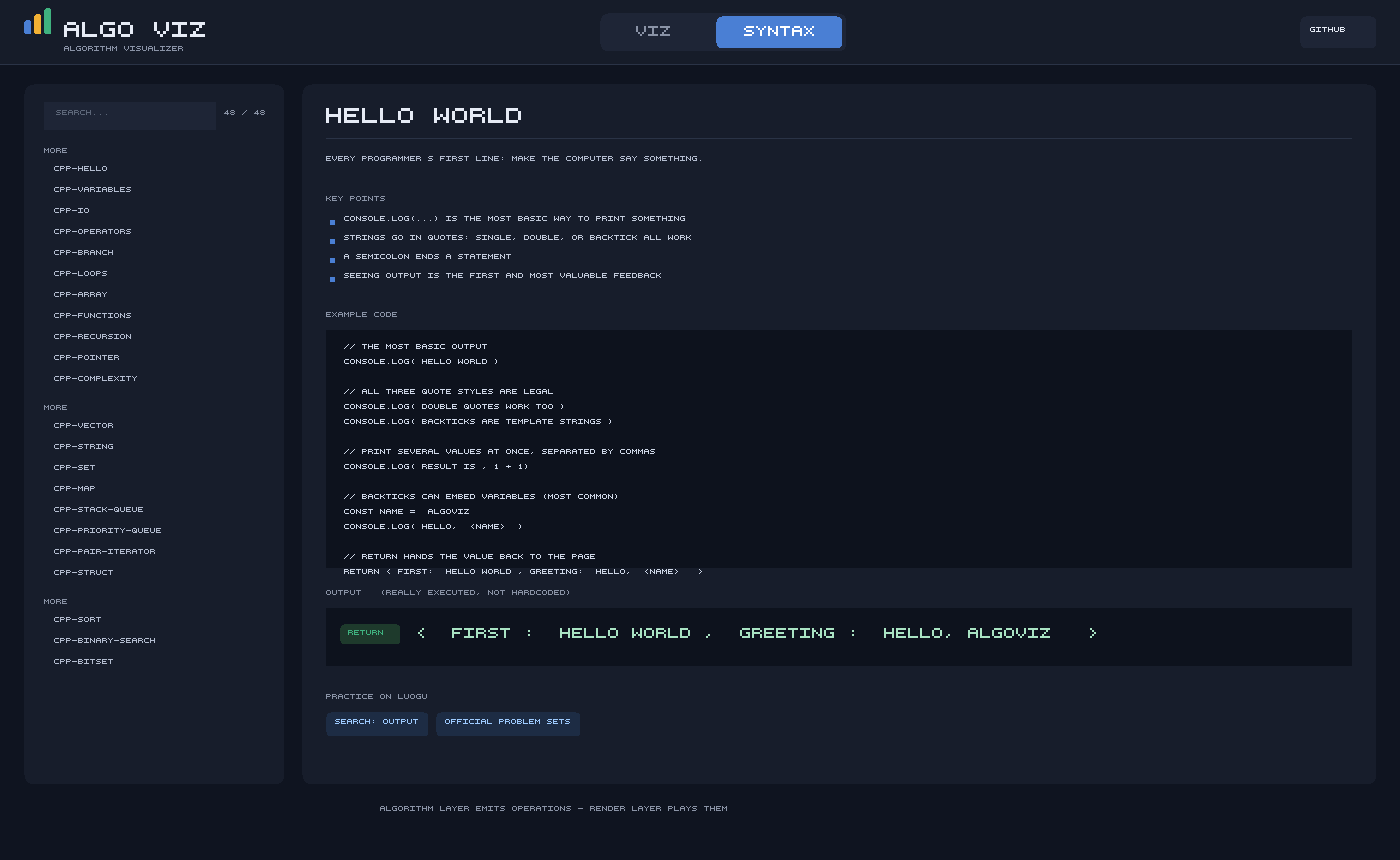
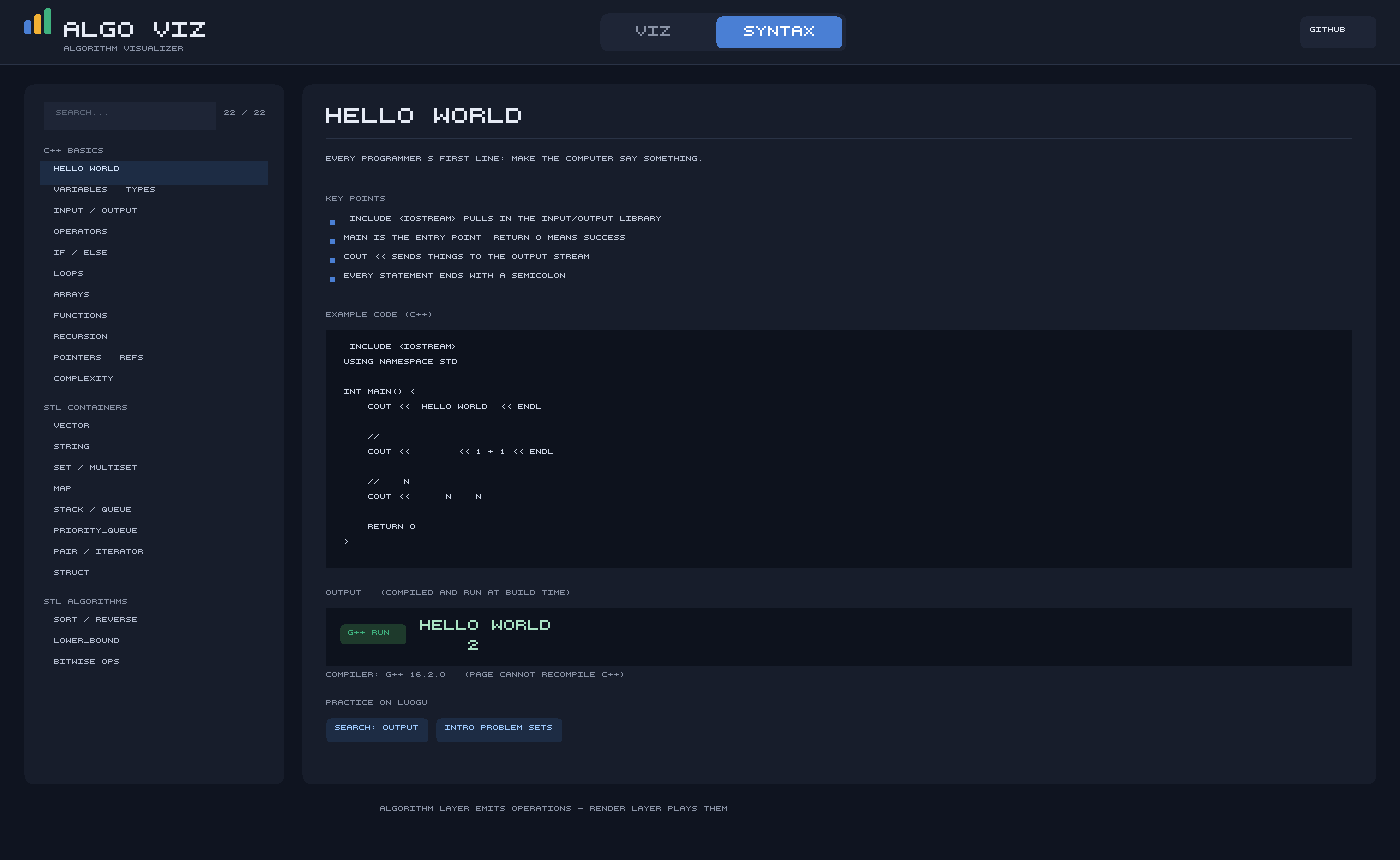
docs: README 同步为 C++ 版本，修正截图内容与目录结构
## README

- 「语法基础」章节改写为「C++ 语法 / STL（22 个知识点，3 组）」
  列出 C++ 基础 11、STL 容器 8、STL 算法 3
- 明确说明输出为何是「预先录制」的：浏览器无法执行 C++，
  且项目部署在 GitHub Pages（纯静态无后端）。如实说明
  「✅ 输出真实编译过 / ✅ 页面标注了来源 / ❌ 不能在网页上重跑」
- 新增「C++ 示例的构建流程」小节，说明三段式流程与原因
  （沙箱禁止 Node spawn 子进程，所以编译步骤只能单独跑）
- 修正目录结构（此前多处编辑导致缩进错乱），补上 cpp-* 与新增测试文件
- 测试章节：verify-syntax.js → verify-cpp-content.js，并列出其 8 组检查内容

## 截图

此前示意图右侧仍显示旧 JS 内容（console.log / backticks），
与真实页面不符 —— 误导性的截图比没有更糟。已改为：
- 代码直接从 src/syntax/cpp-topics.js 的真实内容读取（不再手写）
- 展示 #include <iostream> / cout << 等真实 C++
- 输出区展示真实编译结果，并标注「PAGE CANNOT RECOMPILE C++」
- 左侧导航分组改为 C++ BASICS / STL CONTAINERS / STL ALGORITHMS
- 知识点计数从硬编码的 48 改为从真实数据读取

全部 8 个测试套件通过。

diff --git a/tests/make-screenshot.js b/tests/make-screenshot.js
@@ -323,22 +323,32 @@ function drawVizScreenshot() {
 // 图二：语法基础页
 // =====================================================================
 
-const { CPP_GROUPS: SYNTAX_GROUPS } = await import(pathToFileURL(path.join(ROOT, 'src/syntax/content.js')).href);
+const { CPP_GROUPS, CPP_TOPIC_LIST, CPP_BUILD_META } = await import(
+  pathToFileURL(path.join(ROOT, 'src/syntax/content.js')).href
+);
 
+/** 中文标题用英文标签代替（点阵字体画不了中文）。 */
 const LABELS = {
-  variables: 'VARIABLES', 'number-types': 'NUMBERS', 'math-floor': 'MATH.FLOOR',
-  'string-basics': 'STRINGS', 'comparison-ops': 'COMPARISON OPS', 'if-else': 'IF / ELSE',
-  truthiness: 'TRUTHINESS', 'array-basics': 'ARRAY BASICS', 'array-push-pop': 'PUSH / POP',
-  'nested-array': '2D ARRAYS', 'for-loop': 'FOR LOOP', 'while-loop': 'WHILE LOOP',
-  'nested-loop': 'NESTED LOOPS', 'array-map-filter': 'MAP / FILTER', 'array-slice': 'SLICE / SPLICE',
-  'array-index-math': 'INDEX MATH', functions: 'FUNCTIONS', 'arrow-function': 'ARROW FUNCTIONS',
-  closures: 'CLOSURES', recursion: 'RECURSION', 'recursion-vs-stack': 'RECURSION TO STACK',
-  'object-literal': 'OBJECTS', 'set-map': 'SET / MAP', 'for-of': 'FOR...OF',
-  'variable-swap': 'SWAP VARIABLES', 'short-circuit': 'SHORT CIRCUIT', 'boolean-flag': 'BOOLEAN FLAG',
-  'min-tracking': 'MIN TRACKING', 'array-init': 'INIT COUNTS', 'array-as-queue': 'QUEUE VIA ARRAY',
-  'array-shift': 'SHIFT COST', 'mid-overflow': 'BINARY MIDPOINT',
-  'string-length': 'STRING LENGTH', 'math-sqrt': 'MATH.SQRT',
-  'array-as-stack': 'STACK VIA ARRAY', destructuring: 'DESTRUCTURING',
+  // 零基础入门
+  'cpp-hello': 'HELLO WORLD', 'cpp-variables': 'VARIABLES & TYPES',
+  'cpp-io': 'INPUT / OUTPUT', 'cpp-operators': 'OPERATORS',
+  'cpp-branch': 'IF / ELSE', 'cpp-loops': 'LOOPS', 'cpp-array': 'ARRAYS',
+  'cpp-functions': 'FUNCTIONS', 'cpp-recursion': 'RECURSION',
+  'cpp-pointer': 'POINTERS & REFS', 'cpp-complexity': 'COMPLEXITY',
+  // STL 容器
+  'cpp-vector': 'VECTOR', 'cpp-string': 'STRING', 'cpp-set': 'SET / MULTISET',
+  'cpp-map': 'MAP', 'cpp-stack-queue': 'STACK / QUEUE',
+  'cpp-priority-queue': 'PRIORITY_QUEUE', 'cpp-pair-iterator': 'PAIR / ITERATOR',
+  'cpp-struct': 'STRUCT',
+  // STL 算法
+  'cpp-sort': 'SORT / REVERSE', 'cpp-binary-search': 'LOWER_BOUND',
+  'cpp-bitset': 'BITWISE OPS',
+};
+
+const GROUP_LABELS = {
+  '零基础入门': 'C++ BASICS',
+  'STL 容器': 'STL CONTAINERS',
+  'STL 算法': 'STL ALGORITHMS',
 };
 
 function drawSyntaxScreenshot() {
@@ -346,25 +356,23 @@ function drawSyntaxScreenshot() {
   cv.rect(0, 0, cv.W, cv.H, C.bg);
   drawChrome(cv, 'syntax');
 
+  // ---- 左栏导航 ----
   cv.roundRect(24, 84, 260, 700, 10, C.panel);
   cv.rect(44, 102, 172, 28, C.elevated);
   cv.text('SEARCH...', 56, 110, '#5d6779', 1);
-  cv.text('48 / 48', 224, 110, C.muted, 1);
+  cv.text(`${CPP_TOPIC_LIST.length} / ${CPP_TOPIC_LIST.length}`, 224, 110, C.muted, 1);
+
+  // 截图展示的是 Hello World 这一项
+  const ACTIVE_ID = 'cpp-hello';
 
   let ny = 148;
-  const groupLabels = {
-    '语言基础': 'LANGUAGE BASICS',
-    '字符串与判断': 'STRINGS & LOGIC',
-    '数组': 'ARRAYS',
-    '函数': 'FUNCTIONS',
-  };
-  for (const group of SYNTAX_GROUPS) {
+  for (const group of CPP_GROUPS) {
     if (ny > 690) break;
-    cv.text(groupLabels[group.name] || 'MORE', 44, ny, C.muted, 1);
+    cv.text(GROUP_LABELS[group.name] || group.name.toUpperCase(), 44, ny, C.muted, 1);
     ny += 18;
     for (const t of group.topics) {
       if (ny > 730) break;
-      const active = t.id === 'mid-overflow';
+      const active = t.id === ACTIVE_ID;
       if (active) cv.rect(40, ny - 5, 228, 24, '#1d2c44');
       cv.text(LABELS[t.id] || t.id.toUpperCase(), 54, ny, active ? '#cfe0f8' : C.dim, 1);
       ny += 21;
@@ -380,10 +388,10 @@ function drawSyntaxScreenshot() {
 
   cv.text('KEY POINTS', 326, 196, C.muted, 1);
   const points = [
-    'CONSOLE.LOG(...) IS THE MOST BASIC WAY TO PRINT SOMETHING',
-    'STRINGS GO IN QUOTES: SINGLE, DOUBLE, OR BACKTICK ALL WORK',
-    'A SEMICOLON ENDS A STATEMENT',
-    'SEEING OUTPUT IS THE FIRST AND MOST VALUABLE FEEDBACK',
+    '#INCLUDE <IOSTREAM> PULLS IN THE INPUT/OUTPUT LIBRARY',
+    'MAIN IS THE ENTRY POINT; RETURN 0 MEANS SUCCESS',
+    'COUT << SENDS THINGS TO THE OUTPUT STREAM',
+    'EVERY STATEMENT ENDS WITH A SEMICOLON',
   ];
   let py = 216;
   for (const p of points) {
@@ -392,44 +400,38 @@ function drawSyntaxScreenshot() {
     py += 19;
   }
 
-  cv.text('EXAMPLE CODE', 326, 312, C.muted, 1);
+  // 代码直接从真实内容里取，保证示意图和实际一致
+  const activeTopic = CPP_TOPIC_LIST.find((t) => t.id === ACTIVE_ID);
+  cv.text('EXAMPLE CODE (C++)', 326, 312, C.muted, 1);
   cv.rect(326, 330, 1026, 238, '#0d121d');
-  const code = [
-    '// The most basic output',
-    'console.log(\'Hello World\');',
-    '',
-    '// All three quote styles are legal',
-    'console.log("double quotes work too");',
-    'console.log(`backticks are template strings`);',
-    '',
-    '// Print several values at once, separated by commas',
-    'console.log(\'result is\', 1 + 1);',
-    '',
-    '// Backticks can embed variables (most common)',
-    'const name = \'AlgoViz\';',
-    'console.log(`hello, ${name}!`);',
-    '',
-    '// return hands the value back to the page',
-    'return { first: \'Hello World\', greeting: `hello, ${name}!` };',
-  ];
+  const codeLines = (activeTopic ? activeTopic.code : '').split('\n').slice(0, 14);
   let cy = 344;
-  for (const line of code) { cv.text(line, 344, cy, '#cfd8e8', 1); cy += 15; }
+  for (const line of codeLines) { cv.text(line, 344, cy, '#cfd8e8', 1); cy += 15; }
 
-  cv.text('OUTPUT   (REALLY EXECUTED, NOT HARDCODED)', 326, 590, C.muted, 1);
+  // 真实输出
+  cv.text('OUTPUT   (COMPILED AND RUN AT BUILD TIME)', 326, 590, C.muted, 1);
   cv.rect(326, 608, 1026, 58, '#0d121d');
-  cv.roundRect(340, 624, 60, 20, 4, '#1e3a2c');
-  cv.text('RETURN', 348, 630, C.green, 1);
-  cv.text('{ "FIRST": "HELLO WORLD", "GREETING": "HELLO, ALGOVIZ!" }', 416, 628, '#a9e3c3', 2);
+  cv.roundRect(340, 624, 66, 20, 4, '#1e3a2c');
+  cv.text('G++ RUN', 348, 630, C.green, 1);
+  const outLines = ((activeTopic && activeTopic.output) || '').trim().split('\n').slice(0, 2);
+  let oy = 620;
+  for (const line of outLines) {
+    cv.text(line, 420, oy, '#a9e3c3', 2);
+    oy += 20;
+  }
+  // 如实标注：构建期编译，页面不能重跑
+  cv.text(`COMPILER: G++ 16.2.0   (PAGE CANNOT RECOMPILE C++)`, 326, 672, C.muted, 1);
 
   // 洛谷练习入口
-  cv.text('PRACTICE ON LUOGU', 326, 694, C.muted, 1);
+  cv.text('PRACTICE ON LUOGU', 326, 700, C.muted, 1);
   let ux = 326;
-  for (const name of ['SEARCH: OUTPUT', 'OFFICIAL PROBLEM SETS']) {
+  for (const name of ['SEARCH: OUTPUT', 'INTRO PROBLEM SETS']) {
     const w = Canvas.tw(name, 1) + 18;
-    cv.roundRect(ux, 712, w, 24, 5, '#1d2c44');
-    cv.text(name, ux + 9, 719, '#9ecbff', 1);
+    cv.roundRect(ux, 718, w, 24, 5, '#1d2c44');
+    cv.text(name, ux + 9, 725, '#9ecbff', 1);
     ux += w + 8;
   }
+  void CPP_BUILD_META;
 
   cv.text('ALGORITHM LAYER EMITS OPERATIONS - RENDER LAYER PLAYS THEM', 380, 806, C.muted, 1);
   return writePng(cv, path.join(OUT_DIR, 'screenshot-syntax.png'));

diff --git a/README.md b/README.md
@@ -13,7 +13,7 @@
 | 页签 | 内容 | 适合谁 |
 |---|---|---|
 | **算法可视化** | **23 个**算法 / 数据结构，8 个分类，每类有专属渲染方式 | 想看「算法到底怎么跑的」 |
-| **语法基础** | **48 个** JS 知识点（含零基础入门 12 个），每个都配**可执行**示例 | 从零开始学，或看不懂算法代码 |
+| **C++ 语法 / STL** | **22 个** C++ 知识点（基础 11 + STL 11），示例经 g++ 真实编译 | 从零开始学 C++，或看不懂算法代码 |
 
 两者是**互相跳转**的：每个算法旁边列出它用到的语法点，点一下跳到讲解；
 每个语法点底部列出用它的算法，点一下跳回动画。**看不懂哪行代码，就去点它。**
@@ -24,7 +24,7 @@
 
 ![算法可视化界面](docs/screenshot.png)
 
-### 语法基础
+### C++ 语法 / STL
 
 ![语法基础界面](docs/screenshot-syntax.png)
 
@@ -78,6 +78,21 @@ npm run screenshot    # 重新生成两张示意图
 
 ---
 
+### C++ 示例的构建流程
+
+C++ 示例的输出是**构建期**编译得到的（浏览器跑不了 C++）。要重新生成：
+
+```bash
+node tests/build-cpp.js            # 阶段一：写出 .cpp 源文件
+# 然后编译运行（本机沙箱禁止 Node 直接 spawn 子进程，所以要单独跑这步）
+# 见 tests/build-cpp.ps1 里的循环，或手动用 g++ 编译 .cpp-build/*.cpp
+node tests/build-cpp.js --collect  # 阶段三：收集真实输出成 cpp-output.js
+```
+
+编译产物写在 `.cpp-build/`（**不入库**），只有收集结果 `src/syntax/cpp-output.js` 入库。
+
+> 这里分三步是环境所迫：本机沙箱禁止 Node 的 `child_process` 以 piped stdio
+> 启动子进程（实测得到 `spawnSync g++ EPERM`），而 PowerShell 直接调用 g++ 是可行的。
 ## 全部 23 个算法 / 数据结构
 
 ### 比较排序（7 个）
@@ -149,19 +164,30 @@ npm run screenshot    # 重新生成两张示意图
 |---|---|---|
 | 位运算 | O(1) | 把整数拆成二进制位，逐位展示与/或/异或，以及移位等于乘除 2 |
 
-### 语法基础（48 个知识点，7 组）
+### C++ 语法 / STL（22 个知识点，3 组）
 
 | 分组 | 知识点 |
 |---|---|
-| **零基础入门（12 个）** | 程序是什么、**Hello World**、注释、输入与输出、数据类型、类型转换、算术运算符、运算符优先级、switch 多分支、do...while、break 与 continue、最简单的调试方法 |
-| 语言基础 | 变量与常量、数字与整数运算、`Math.floor/ceil/round/abs`、`Math.sqrt` |
-| 字符串与判断 | 字符串基础、字符串长度、比较运算符、条件分支、真值与假值 |
-| 数组 | 数组基础、`push/pop/shift/unshift`、二维数组、`for` 循环、`while` 循环、嵌套循环与复杂度、`map/filter/reduce`、`slice/splice/展开`、下标与索引运算 |
-| 函数 | 函数声明与默认参数、箭头函数、闭包、递归、递归改写成栈 |
-| 对象与集合 | 对象与解构、`Set` 与 `Map`、`for...of`、解构赋值 |
-| 实用技巧 | 交换两个变量、短路求值与空值合并、布尔标记、打擂台求最值、初始化计数数组、用数组实现队列与栈、用数组实现栈、`shift` 的代价与头指针优化、二分中点怎么写 |
+| **C++ 基础（11 个）** | **Hello World**、变量与基本类型、输入与输出、运算符、条件分支、循环、数组、函数、递归、指针与引用、复杂度入门 |
+| **STL 容器（8 个）** | `vector`（动态数组）、`string`、`set` / `multiset`（有序集合）、`map`（键值对）、`stack` / `queue`（栈与队列）、`priority_queue`（优先队列 / 堆）、`pair` 与迭代器、`struct`（自定义类型） |
+| **STL 算法（3 个）** | `sort` / `reverse` / `unique`、`lower_bound` / `upper_bound`（二分查找）、位运算 |
 
-**每个知识点的示例代码都是真跑的**，页面会显示真实返回值，不是写死的输出。
+**每个示例都是完整的、可以直接编译的 C++ 程序**（含 `#include` 与 `main`），
+页面上展示的输出是**构建期用 g++ 真实编译运行得到的**，不是手写的。
+
+> **重要说明：为什么输出是「预先录制」的？**
+>
+> 浏览器**无法执行 C++**，而本项目部署在 GitHub Pages（纯静态托管，没有后端）。
+> 所以 C++ 示例不可能像普通网页 demo 那样「点一下就重新编译运行」。
+>
+> 本项目采用的做法是：构建期把 45 个示例用 `g++ -std=c++17 -O2` **全部编译并运行一遍**，
+> 把真实 stdout 录进 `src/syntax/cpp-output.js`，页面读取展示。
+>
+> - ✅ 你看到的输出是**真实编译运行的结果**，不是我手写的
+> - ✅ 页面上明确标注了编译器版本，以及「本页不能重新编译」
+> - ❌ 你不能在网页上改代码重跑（想试可以复制到本地或在线编译器）
+>
+> 这是当前架构下最诚实的做法：**不假装能跑，但保证展示的确实跑过**。
 
 ---
 
@@ -323,21 +349,27 @@ algo-viz/
 │   │   ├── factory.js           渲染器工厂 + 输入生成
 │   │   └── player.js            requestAnimationFrame 播放器
 │   └── syntax/
-│       ├── topics.js            48 个知识点（含可执行示例）
+│       ├── cpp-topics.js        22 个 C++ 知识点（完整可编译程序）
+│       ├── cpp-algos.js         23 个算法的 C++ 实现
+│       ├── cpp-output.js        构建期编译运行得到的真实输出
+│       ├── content.js           装配层（知识点 + 输出 + 练习链接）
+│       ├── algo-topics.js       算法 → C++ 知识点映射
 │       └── runner.js            示例代码沙箱执行器
 ├── styles/
 │   └── main.css                 全部样式
 └── tests/
-    ├── verify.js                算法正确性（约 880 次运行）
-    ├── verify-syntax.js         语法示例可执行性 + 关联有效性 + 洛谷入口
-├── verify-technique.js      基础技巧/字符串/位运算（与暴力实现对拍）
-├── verify-renderers.js      渲染器健壮性（未 load 就 draw、空数据、尺寸为 0）
-├── verify-styles.js         HTML/CSS 静态一致性（hidden 是否生效等）
-├── verify-classes.js        类的重复方法名检查
-│   └── verify-decoupling.js    解耦架构静态验证（算法层不碰 DOM、渲染层不认识算法名）
-    ├── ui-integration.js        界面集成测试（DOM 桩跑真实 app.js）
-    ├── serve.js                 零依赖本地服务器
-    └── gen/make-screenshot.js   合成 README 示意图
+    ├── verify.js                   算法正确性（约 880 次运行）
+    ├── verify-technique.js         基础技巧/字符串/位运算（与暴力实现对拍）
+    ├── verify-cpp-content.js       C++ 教程内容（编译输出、关联、练习链接）
+    ├── verify-renderers.js         渲染器健壮性（未 load 就 draw、空数据、尺寸为 0）
+    ├── verify-styles.js            HTML/CSS 静态一致性（hidden 是否生效等）
+    ├── verify-classes.js           类的重复方法名检查
+    ├── verify-decoupling.js        解耦架构静态验证（算法层不碰 DOM、渲染层不认识算法名）
+    ├── ui-integration.js           界面集成测试（DOM 桩跑真实 app.js）
+    ├── build-cpp.js                C++ 编译验证：阶段一/三（写出源文件、收集结果）
+    ├── build-cpp.ps1               C++ 编译验证：阶段二（调用 g++ 编译运行）
+    ├── make-screenshot.js          合成 README 示意图
+    └── serve.js                    零依赖本地服务器
 ```
 
 四层职责清晰：**算法层**只产出序列，**渲染层**只播放序列，**入口层**翻译用户操作，**语法层**提供可执行的讲解。
@@ -360,13 +392,16 @@ algo-viz/
   **BFS 的路径长度必须等于独立实现算出的最短距离**。
 - **栈 / 队列**：括号匹配的判定与独立实现交叉验证；队列校验先进先出。
 
-### 语法示例（`tests/verify-syntax.js`）
+### C++ 教程内容（`tests/verify-cpp-content.js`）
 
-- **48 个示例全部能在沙箱里跑通并 return 出结果**
-- 每段示例都有 id / 分组 / 标题 / 说明 / 要点 / 代码
-- **算法引用的语法点 id 必须真实存在**（防止拼错导致跳转失效）
-- 抽查关键示例的返回值是否符合预期
-- 验证错误处理：写错的代码被捕获而不是让页面崩溃；沙箱内访问不到 `document`
+- **45 个 C++ 示例全部经 g++ 真实编译运行**（22 个知识点 + 23 个算法实现）
+- 每个知识点都有完整代码（含 `#include` 与 `main`）、简介、要点、练习链接
+- **编译输出非空**：不允许出现「标记成功但输出为空」的情况
+- **内容确实是 C++**：检查没有残留 `console.log` / 箭头函数等 JS 写法
+- 算法 ↔ C++ 知识点**双向关联 id 必须真实存在**（防止拼错导致跳转失效）
+- 抽查输出正确性：Hello World 含 "Hello World"、KMP 的 next 数组为 `0 0 1 2 0`、
+  9 个排序算法的输出都是正确的有序结果
+- 洛谷链接：格式合法、中文关键词已编码、**没有写死题号**、题单面向「深入浅出」入门题单
 
 ### 界面集成（`tests/ui-integration.js`，40 项断言）
 
@@ -377,7 +412,7 @@ algo-viz/
 - **8 类渲染器**的播放控制（单步 / 跳转 / 重置）都正常
 - 统计标签随可视化类型变化（网格没有「交换次数」）
 - 对比表在排序与非比较排序两类下结果都正确
-- **48 个语法知识点全部可选中并执行示例**
+- **22 个 C++ 知识点全部可选中，并展示完整代码与编译输出**
 - 算法 ↔ 语法点双向跳转
 - 洛谷练习入口链接格式合法、关键词已编码、没有写死题号
 
